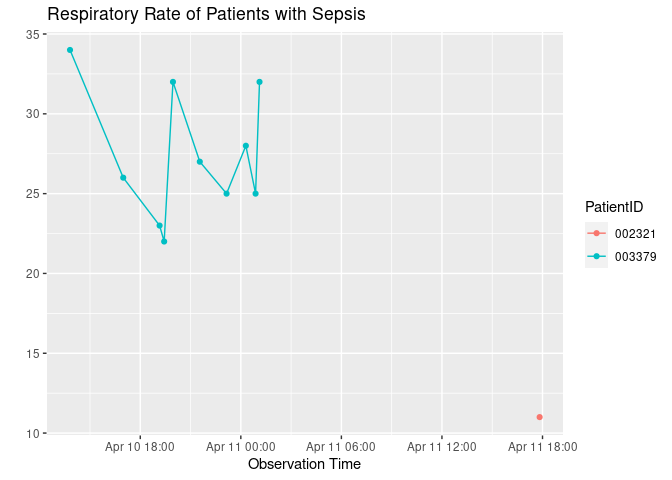
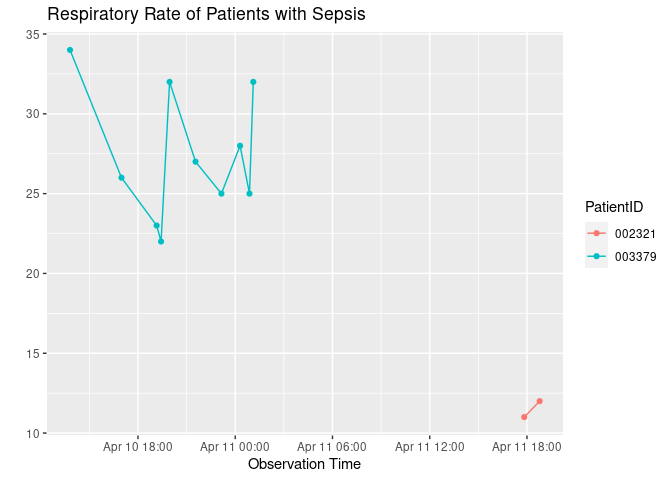
Updated report

diff --git a/README.md b/README.md
@@ -8,11 +8,11 @@ Yansong Wen
 
 \#TASK 4
 
-    [1] "2023-04-11 18:21:07 UTC"
+    [1] "2023-04-11 19:14:35 UTC"
 
 | PatientID |  HR | Temp | Resp |
 |:----------|----:|-----:|-----:|
-| 002321    |  57 |   NA |   11 |
+| 002321    |  61 |   NA |   12 |
 | 003379    |  85 |   NA |   32 |
 
 ![](README_files/figure-commonmark/unnamed-chunk-4-1.png)
@@ -23,7 +23,7 @@ Yansong Wen
 
 | PatientID | dHR | dTemp | dResp |
 |:----------|----:|------:|------:|
-| 000098    |  -3 |    NA |     1 |
+| 000098    |   0 |    NA |    -6 |
 | 000135    |  10 |   0.1 |     0 |
 | 000150    |   4 |    NA |     2 |
 | 000536    |  NA |    NA |    NA |
@@ -35,7 +35,7 @@ Yansong Wen
 | 002116    |  NA |    NA |    NA |
 | 002171    |  NA |    NA |     5 |
 | 002247    |  -2 |    NA |     1 |
-| 002321    |   3 |    NA |    -1 |
+| 002321    |   4 |    NA |     1 |
 | 002480    |   3 |    NA |    -1 |
 | 002819    |   1 |    NA |     1 |
 | 002945    |   0 |    NA |     1 |
@@ -46,30 +46,30 @@ Yansong Wen
 | 004768    |  NA |    NA |    NA |
 | 004772    |   7 |    NA |    -3 |
 | 004902    |   2 |    NA |     0 |
-| 004927    |   5 |    NA |    -1 |
+| 004927    | -12 |    NA |    -7 |
 | 004978    |  NA |    NA |    NA |
 | 005062    |  NA |    NA |    NA |
 | 005131    |  26 |    NA |     6 |
 | 005135    |   5 |    NA |    -6 |
-| 005854    |   5 |    NA |    -5 |
+| 005854    |  -1 |    NA |     1 |
 | 005858    |  -5 |    NA |     0 |
 | 005946    |  -4 |    NA |     0 |
-| 005980    |  -6 |    NA |     0 |
+| 005980    |   4 |    NA |     2 |
 | 006349    |  -6 |   0.0 |    -3 |
 | 006534    |   9 |    NA |    22 |
-| 006827    |  -3 |   0.2 |     0 |
-| 006987    |   2 |   0.1 |     8 |
+| 006827    |   6 |  -0.3 |     3 |
+| 006987    |  -5 |   0.0 |    -2 |
 | 007029    |   2 |    NA |     0 |
-| 007041    |  NA |    NA |     3 |
+| 007041    |  NA |    NA |   -12 |
 | 007541    |   0 |    NA |     0 |
 | 007567    |  -3 |    NA |     4 |
 | 007586    |  NA |   0.0 |   -15 |
 | 007742    |  NA |    NA |    NA |
 | 007753    |  -3 |    NA |    -1 |
-| 008527    |   7 |    NA |     0 |
-| 008638    | -15 |    NA |   -14 |
-| 008639    |  -5 |    NA |     1 |
-| 008828    |  -2 |   0.3 |     1 |
+| 008527    |  NA |    NA |    NA |
+| 008638    |  14 |    NA |     8 |
+| 008639    |  -1 |    NA |    -1 |
+| 008828    |   6 |   0.0 |    -5 |
 | 009301    |   4 |    NA |     0 |
 | 009610    |  13 |    NA |     0 |
 | 009821    |   5 |    NA |    -4 |
